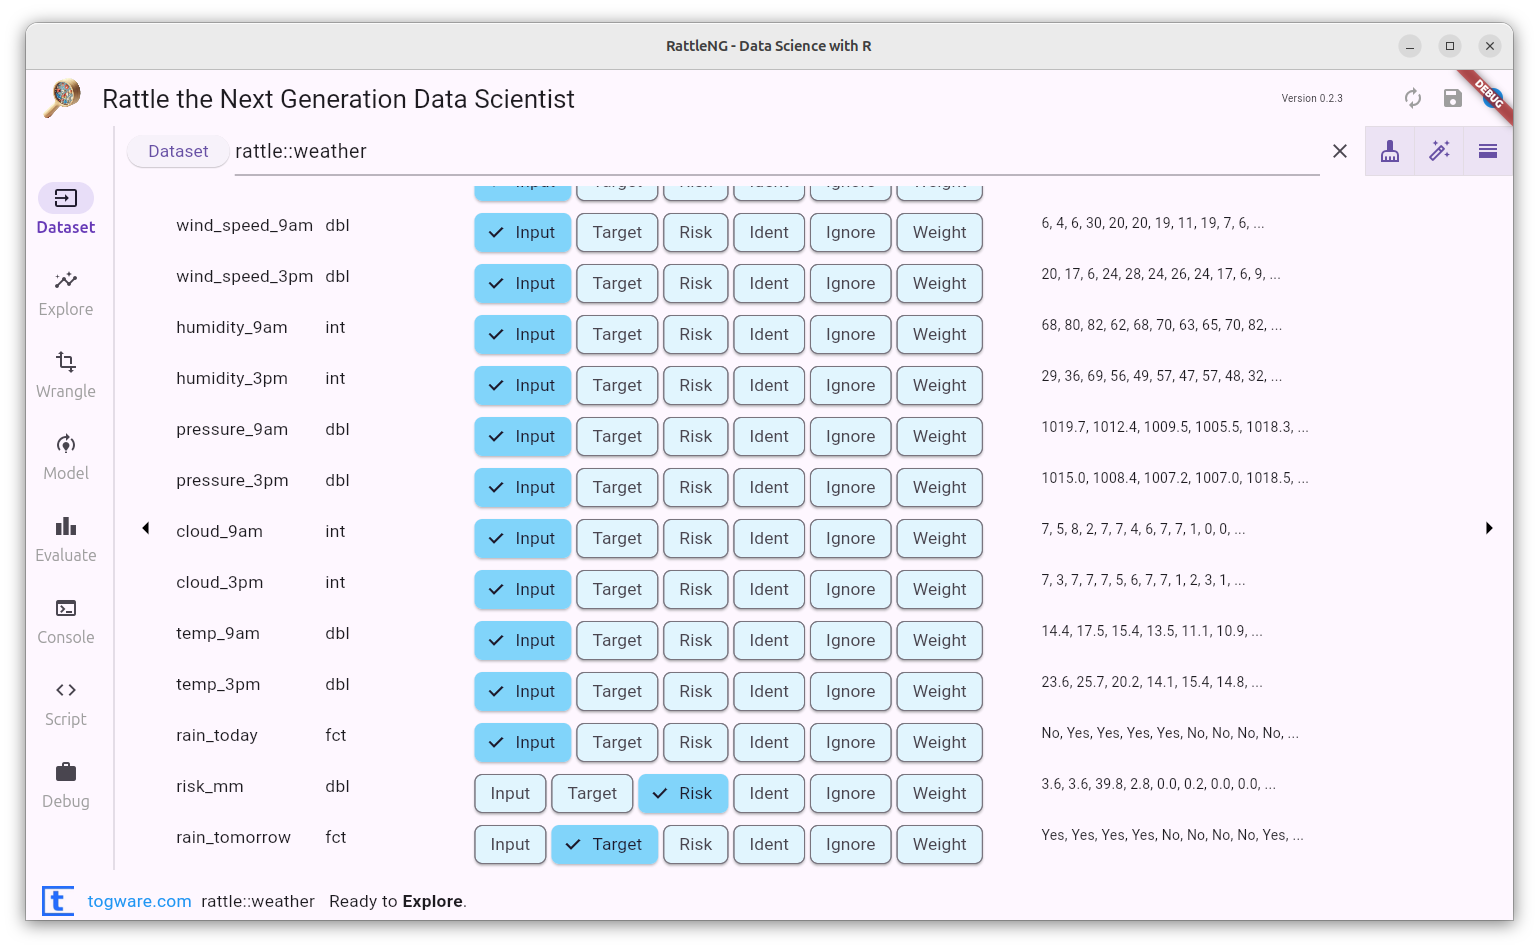
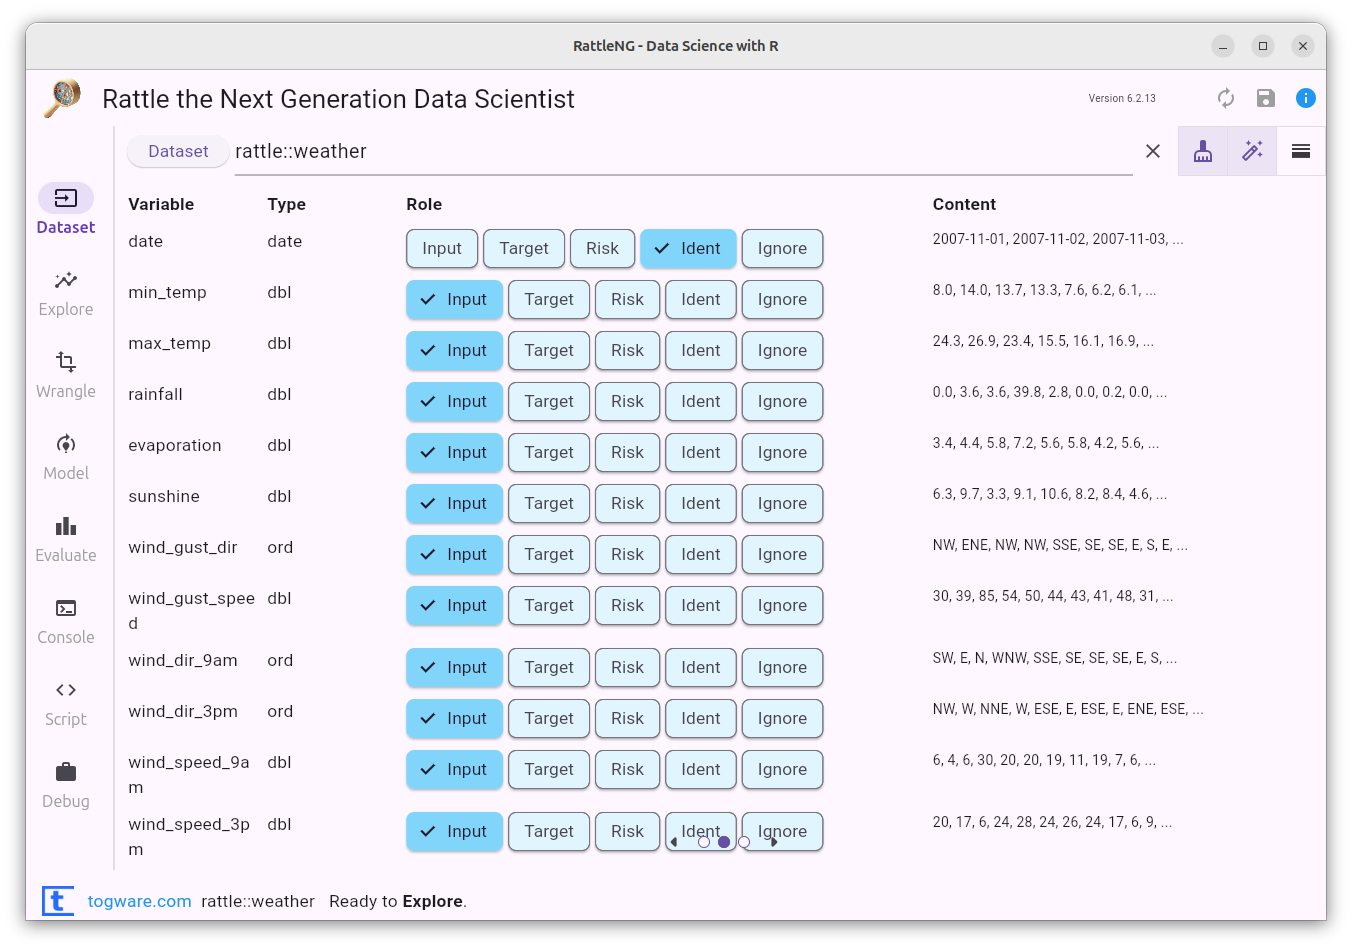
Update README screenshots.

diff --git a/README.md b/README.md
@@ -54,18 +54,21 @@ Then:
 + Tap the **Script** tab to see the R code that has been run.
 + Tap the **Console** tab to see the R code being run within an R
   session. You can even type R commands there to have them run.
-+ Tap the **Dataset** tab to return the to startup screen for
++ Tap the **Dataset** tab to return the to the startup screen for
   RattleNG. Tap the **Dataset** button and then choose **Demo** to
   load the `rattle::weather` dataset. You can also load your own CSV
   or TXT file by tapping the **Filename** button instead. The result
   panel of the page will provide view or summary of the dataset.
-+ Notice the toggle buttons to the top right of the tab page:
++ Tap the right pointing arrow to view the **Roles** page where you
+  can specify the role for each variable. Defaults will have been set.
++ Notice the toggle buttons to the top right of the **Dataset** page:
   **Cleanse**, **Normalise** and **Partition**. Hover the mouse to
   view the tooltips.
-+ Tap the **Model** tab and then the **Tree** radio button (selected
-  by default) and then the **Build** button to build and view a
-  decision tree from a CSV dataset. Scroll the window to see the whole
-  tree.
++ To build an AI model, tap the **Model** tab and then the **Tree**
+  radio button (selected by default) and then the **Build** button to
+  build and view a decision tree from a CSV dataset. Scroll through
+  the pages to the page showing the decision tree, textually and
+  visually.
 + Tap the **Script** tab and scroll the window to view the latest R
   commands run. Then tap the **Export** button to save the full script
   to `script.R` (no options currently to change the name or location
@@ -79,9 +82,11 @@ Currently implemented features:
   + Demo
 + Explore
   + Summary
-  + Visual (no config yet)
+  + Visual
   + Missing
   + Correlation
++ Wrangle
+  + Recenter
 + Model
   + Cluster
   + Tree
@@ -206,6 +211,17 @@ For a text file we can gain an insight into the document through a
 word cloud.
 
 ![](assets/screenshots/explore_wordcloud.png)
+
+### Wrangling the Data
+
+A suite of transformation functions are available in Rattle to map
+variables in different ways. Each transformation will create a new
+variable from the old variable. Here we see `min_temp` being
+transformed using the RECENTER feature and each of the transform
+functions available. The new variables are prefixed with an indicator
+of the type of transformation performed.
+
+![](assets/screenshots/wrangle_recenter.png)
 
 ### Building Models
 
